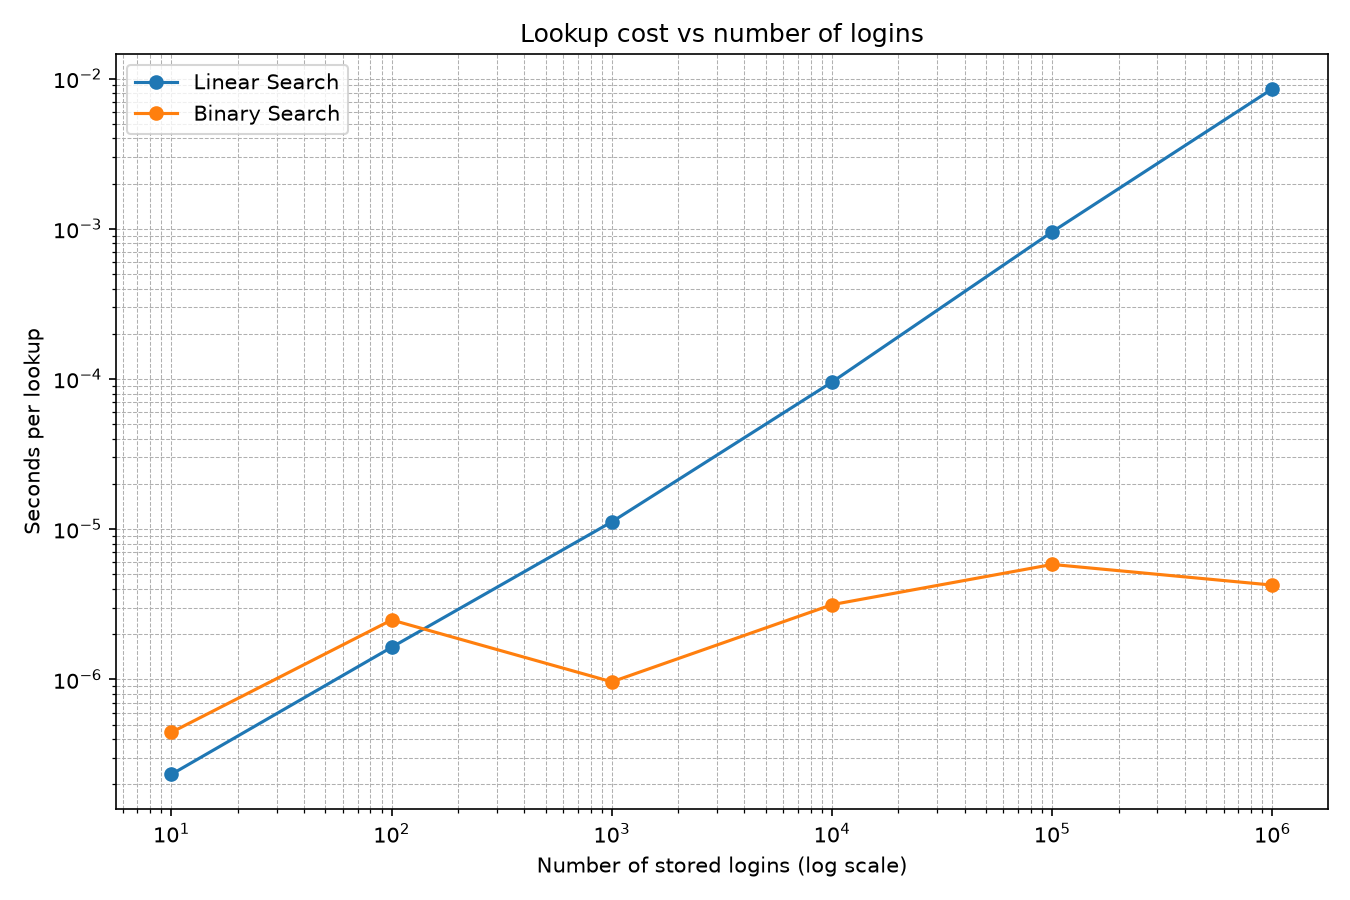
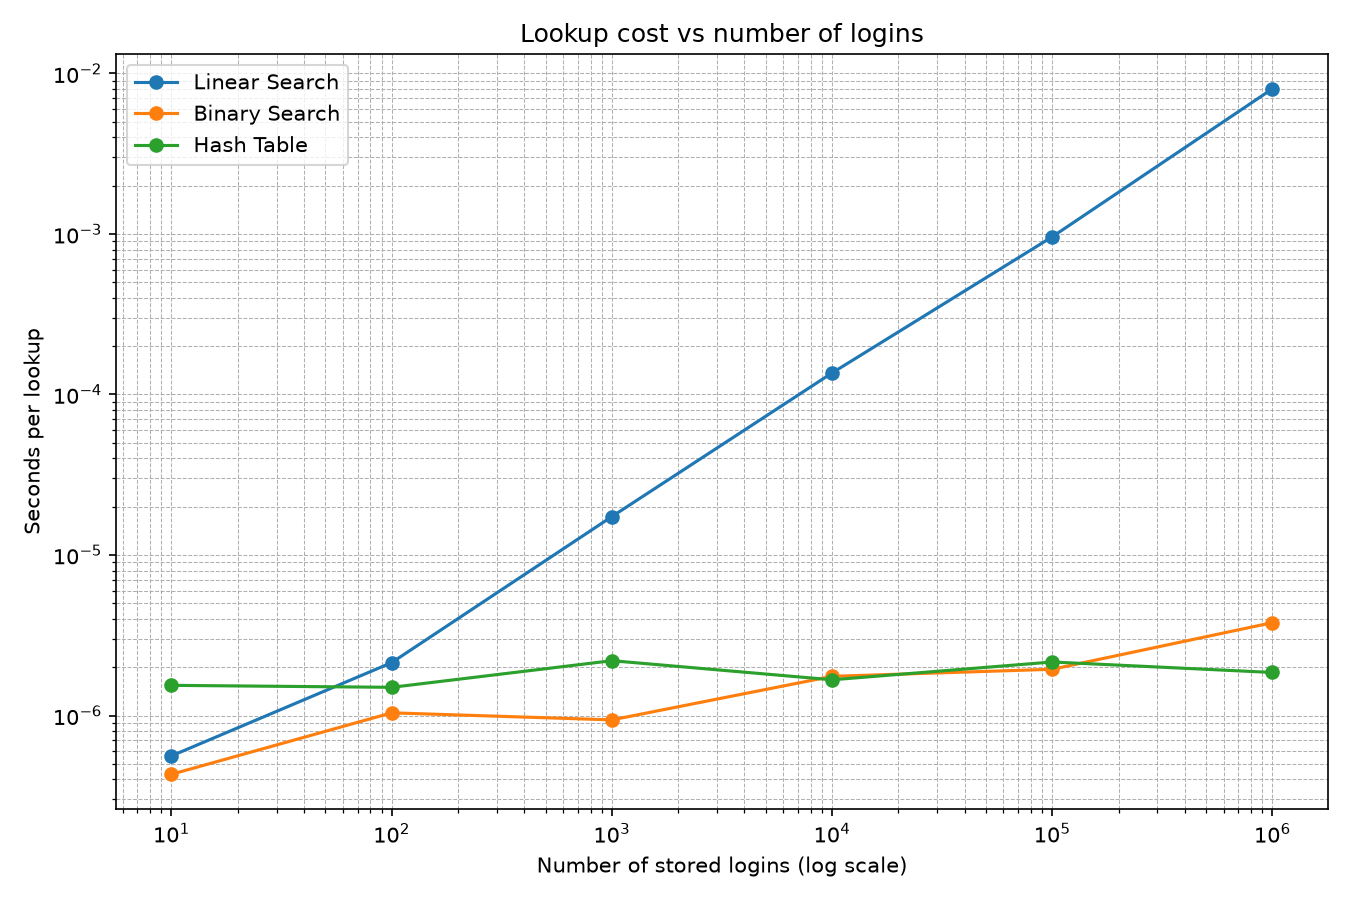
Add fnv-1a hash function and hash table

diff --git a/src/hash_table.py b/src/hash_table.py
@@ -1,0 +1,106 @@
+"""Membership checking using a hash table with separate chaining."""
+
+from src.utils.hashes import fnv1a_64
+
+
+class HashTable:
+    """
+    Membership checking by hashing each login to a bucket.
+
+    Collisions are resolved by chaining: each bucket holds a list of the
+    logins that hashed to it. The table doubles in size when the load
+    factor is exceeded, which keeps chains short and gives amortised
+    O(1) insertion and lookup.
+    """
+
+    def __init__(self, capacity=16, max_load=0.75):
+        """
+        Create an empty hash table.
+
+        Input:  capacity (int) — initial number of buckets
+                max_load (float) — items per bucket before doubling
+        Output: None
+        """
+        self.capacity = capacity
+        self.max_load = max_load
+        self.count = 0
+        self.buckets = [[] for _ in range(capacity)]
+
+    def bucket_index(self, item):
+        """
+        Find the bucket a login belongs to.
+
+        Input:  item (str) — the login name
+        Output: int — index into self.buckets
+
+        Reducing the 64-bit hash modulo the capacity spreads logins
+        across buckets. O(L) for a login of L characters.
+        """
+        return fnv1a_64(item) % self.capacity
+
+    def resize(self):
+        """
+        Double the number of buckets and redistribute every login.
+
+        Input:  none
+        Output: None
+
+        Costs O(n), but happens only when the table doubles, so the cost
+        spread over the insertions since the last resize is O(1) each.
+        Logins must be reinserted rather than copied, because bucket
+        indices depend on the capacity.
+        """
+        old_buckets = self.buckets
+        self.capacity *= 2
+        self.buckets = [[] for _ in range(self.capacity)]
+
+        for bucket in old_buckets:
+            for item in bucket:
+                self.buckets[self.bucket_index(item)].append(item)
+
+    def add(self, item):
+        """
+        Store a login name.
+
+        Input:  item (str) — the login name to store
+        Output: None
+
+        Already-stored logins are ignored, so duplicates never lengthen
+        a chain. Amortised O(1).
+        """
+        if self.check(item):
+            return
+
+        self.buckets[self.bucket_index(item)].append(item)
+        self.count += 1
+
+        if self.count / self.capacity > self.max_load:
+            self.resize()
+
+    def build(self, items):
+        """
+        Load many login names at once.
+
+        Input:  items (iterable of str) — login names to store
+        Output: None
+
+        O(n) amortised in total.
+        """
+        for item in items:
+            self.add(item)
+
+    def check(self, item):
+        """
+        Check whether a login name is already stored.
+
+        Input:  item (str) — the login name to look for
+        Output: bool — True if present, else False
+
+        Scans only the one bucket the login hashes to. With the load
+        factor bounded, chains stay short and this is O(1) on average;
+        the worst case is O(n) if every login collided.
+        """
+        for stored in self.buckets[self.bucket_index(item)]:
+            if stored == item:
+                return True
+        return False

diff --git a/tests/test_hashes.py b/tests/test_hashes.py
@@ -1,0 +1,65 @@
+"""Unit tests for the FNV-1a hash function."""
+
+from src.utils.hashes import FNV_OFFSET_BASIS, MASK_64, fnv1a_64
+
+
+def test_is_deterministic():
+    """The same input and seed always produce the same hash."""
+    assert fnv1a_64("parinda") == fnv1a_64("parinda")
+    assert fnv1a_64("parinda", seed=7) == fnv1a_64("parinda", seed=7)
+
+
+def test_matches_published_empty_string_value():
+    """Hashing an empty string returns the offset basis unchanged.
+
+    The loop body never runs for an empty input, so the result is the
+    starting value. This checks the implementation against the published
+    specification rather than only against itself.
+    """
+    assert fnv1a_64("") == FNV_OFFSET_BASIS
+
+
+def test_output_fits_in_64_bits():
+    """Every hash lies within the unsigned 64-bit range."""
+    for text in ["", "a", "parinda", "x" * 1000, "日本語"]:
+        assert 0 <= fnv1a_64(text) <= MASK_64
+
+
+def test_different_inputs_differ():
+    """Distinct strings hash to distinct values."""
+    assert fnv1a_64("parinda") != fnv1a_64("rahman")
+    assert fnv1a_64("parinda") != fnv1a_64("parindaa")
+
+
+def test_different_seeds_differ():
+    """The same string hashes differently under different seeds."""
+    values = {fnv1a_64("parinda", seed=s) for s in range(10)}
+    assert len(values) == 10
+
+
+def test_input_change_alters_output():
+    """Changing a character early in the input changes most output bits.
+
+    Counts how many of the 64 output bits differ. Because the
+    accumulator is multiplied by the FNV prime once per remaining byte,
+    a difference early in the string propagates widely. FNV-1a mixes the
+    final byte only once, so a trailing-character difference produces a
+    small output change by design and is deliberately not used here.
+    """
+    changed = fnv1a_64("user_00001") ^ fnv1a_64("user_10001")
+    assert 16 <= bin(changed).count("1") <= 48
+
+
+def test_distributes_across_buckets(stored_logins):
+    """Hashes spread evenly enough for use as bucket indices.
+
+    With 1000 logins across 64 buckets, a uniform hash gives about 16
+    per bucket. Every bucket should be used and none should hold an
+    extreme share.
+    """
+    buckets = [0] * 64
+    for login in stored_logins:
+        buckets[fnv1a_64(login) % 64] += 1
+
+    assert min(buckets) > 0
+    assert max(buckets) < 40

diff --git a/src/utils/hashes.py b/src/utils/hashes.py
@@ -1,0 +1,37 @@
+"""Non-cryptographic hash functions for the hash table and filters."""
+
+# 64-bit FNV-1a parameters, as published in the FNV specification.
+# The offset basis seeds the accumulator; the prime is chosen so that
+# repeated multiplication disperses changes across all output bits.
+FNV_OFFSET_BASIS = 14695981039346656037
+FNV_PRIME = 1099511628211
+MASK_64 = 0xFFFFFFFFFFFFFFFF
+
+
+def fnv1a_64(text, seed=0):
+    """
+    Compute the 64-bit FNV-1a hash of a string.
+
+    Input:  text (str) — the string to hash
+            seed (int) — value mixed into the initial state, so that
+                         several independent hashes of the same string
+                         can be produced
+    Output: int — a hash value in the range [0, 2^64)
+
+    For each byte of the UTF-8 encoding, the accumulator is XORed with
+    the byte and then multiplied by the FNV prime. The XOR mixes the
+    byte in; the multiplication propagates that change through the
+    higher bits, so a one-bit change in the input alters roughly half
+    the output bits. Cost is O(L) for a string of L bytes.
+
+    Python integers do not overflow, so the accumulator is masked to 64
+    bits after each multiplication to reproduce the wraparound the
+    algorithm assumes.
+    """
+    accumulator = (FNV_OFFSET_BASIS ^ seed) & MASK_64
+
+    for byte in text.encode("utf-8"):
+        accumulator ^= byte
+        accumulator = (accumulator * FNV_PRIME) & MASK_64
+
+    return accumulator

diff --git a/tests/test_linear_search.py b/tests/test_linear_search.py
@@ -19,16 +19,16 @@ def test_duplicate_detection(logins, expected):
 def test_empty_structure_finds_nothing():
     """An empty structure reports every query as absent."""
     checker = LinearSearch()
-    assert checker.check("alice") is False
+    assert checker.check("parinda") is False
     assert checker.check("") is False
 
 
 def test_single_login():
     """A structure holding one login finds it and rejects others."""
     checker = LinearSearch()
-    checker.add("alice")
-    assert checker.check("alice") is True
-    assert checker.check("bob") is False
+    checker.add("parinda")
+    assert checker.check("parinda") is True
+    assert checker.check("rahman") is False
 
 
 def test_no_false_negatives(stored_logins):

diff --git a/tests/test_binary_search.py b/tests/test_binary_search.py
@@ -23,7 +23,7 @@ def test_empty_structure_finds_nothing():
     checker = BinarySearch()
 
     # Verify that regular and empty strings are absent initially.
-    assert checker.check("alice") is False
+    assert checker.check("parinda") is False
     assert checker.check("") is False
 
 
@@ -32,9 +32,9 @@ def test_single_login():
     checker = BinarySearch()
 
     # Add one login and verify exact membership.
-    checker.add("alice")
-    assert checker.check("alice") is True
-    assert checker.check("bob") is False
+    checker.add("parinda")
+    assert checker.check("parinda") is True
+    assert checker.check("rahman") is False
 
 
 def test_no_false_negatives(stored_logins):

diff --git a/benchmarks/benchmark.py b/benchmarks/benchmark.py
@@ -6,6 +6,7 @@ from pathlib import Path
 
 from src.binary_search import BinarySearch
 from src.linear_search import LinearSearch
+from src.hash_table import HashTable
 from src.utils.plot_generation import make_all_plots
 from src.utils.string_generation import generate_strings
 
@@ -94,8 +95,8 @@ def run_benchmark():
     structures = [
         (LinearSearch, "Linear Search"),
         (BinarySearch, "Binary Search"),
+        (HashTable, "Hash Table"),
     ]
-
     RESULTS_DIR.mkdir(exist_ok=True)
     insert_rows = []
     lookup_rows = []
